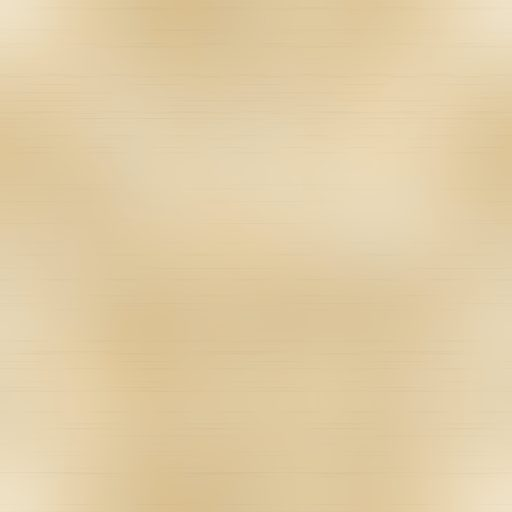
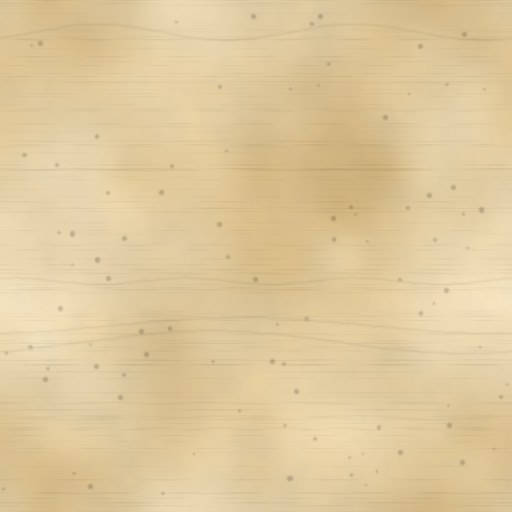
feat: any-assistant connection guide; real parchment; the room breathes
- docs/CONNECTING_ASSISTANTS.md: three doors for any AI — MCP/SSE
  (Claude Code one-liner), MCP/stdio (generic JSON + TOML snippets for
  Codex, Kimi, Grok, Cline, Gemini and any MCP client, via the existing
  docker-exec stdio bridge), and plain REST with curl examples for
  assistants without MCP. README's transport line now says so.
- Textures regenerated with real material character, each theme its
  own: parchment = mottled aged paper with foxing specks, visible
  fibers and faint fold lines; umber = dark oiled vellum with pores,
  stains and hairline scratches. Both still seamless tiles.
- The background stops being still: studies now wander through four
  waypoints per loop (70–150s, nearer pieces roam wider) instead of
  trembling in place; two vast light-blooms drift and swell on their
  own so the room moves even when the pointer rests; the vignette
  breathes on a 46s cycle. All pure CSS transforms/opacity; reduced
  motion still yields a perfectly still folio.
- The parchment lantern earns its keep: a deeper hand-shadow with a
  faint lens ring (multiply), unmistakable on the light theme.

Validation: 73 engravings across 8 folios, 0 parse failures.
Full pytest suite: 235 passed.

diff --git a/brain/app/static/js/codex.js b/brain/app/static/js/codex.js
@@ -323,20 +323,28 @@
     return s;
   }
 
-  function decorate(el, xPct, yPct, size, depth) {
+  function decorate(el, xPct, yPct, size, depth, roam) {
     el.style.left = xPct + "vw";
     el.style.top = yPct + "vh";
     el.style.width = size + "px";
     el.style.height = size + "px";
     el.style.setProperty("--depth", depth.toFixed(2));
-    var inner = el.firstChild;
-    inner.style.setProperty("--drift-x", rnd(-16, 16).toFixed(1) + "px");
-    inner.style.setProperty("--drift-y", rnd(-12, 12).toFixed(1) + "px");
-    inner.style.setProperty("--drift-r", rnd(-4, 4).toFixed(2) + "deg");
-    inner.style.setProperty("--base-r", rnd(-9, 9).toFixed(1) + "deg");
-    inner.style.setProperty("--breathe", rnd(1.01, 1.035).toFixed(3));
-    inner.style.animationDuration = rnd(40, 100).toFixed(0) + "s";
-    inner.style.animationDelay = "-" + rnd(0, 60).toFixed(0) + "s";
+    var inner = el.firstChild, st = inner.style;
+    // four waypoints of a slow float about the room; nearer pieces roam wider
+    var ax = roam * (0.6 + depth), ay = roam * 0.8 * (0.6 + depth);
+    for (var i = 1; i <= 3; i++) {
+      st.setProperty("--x" + i, rnd(-ax, ax).toFixed(2) + "vw");
+      st.setProperty("--y" + i, rnd(-ay, ay).toFixed(2) + "vh");
+    }
+    var r0 = rnd(-9, 9);
+    st.setProperty("--r0", r0.toFixed(1) + "deg");
+    for (var j = 1; j <= 3; j++) {
+      st.setProperty("--r" + j, (r0 + rnd(-7, 7)).toFixed(1) + "deg");
+    }
+    st.setProperty("--s1", rnd(1.01, 1.05).toFixed(3));
+    st.setProperty("--s2", rnd(0.96, 1.03).toFixed(3));
+    st.animationDuration = rnd(70, 150).toFixed(0) + "s";
+    st.animationDelay = "-" + rnd(0, 120).toFixed(0) + "s";
   }
 
   function build() {
@@ -357,6 +365,21 @@
     room.id = "codex-room";
     layer.appendChild(room);
 
+    // the breath: two vast blooms that keep the room moving even when
+    // the pointer rests
+    for (var bi = 0; bi < 2; bi++) {
+      var blob = document.createElement("div");
+      blob.className = "codex-blob";
+      blob.style.left = rnd(-20, 70) + "vw";
+      blob.style.top = rnd(-25, 65) + "vh";
+      blob.style.setProperty("--bx1", rnd(-14, 14).toFixed(1) + "vw");
+      blob.style.setProperty("--by1", rnd(-10, 10).toFixed(1) + "vh");
+      blob.style.setProperty("--bs", rnd(1.08, 1.3).toFixed(2));
+      blob.style.animationDuration = rnd(50, 95).toFixed(0) + "s";
+      blob.style.animationDelay = "-" + rnd(0, 50).toFixed(0) + "s";
+      room.appendChild(blob);
+    }
+
     var vignette = document.createElement("div");
     vignette.id = "codex-vignette";
     layer.appendChild(vignette);
@@ -373,7 +396,7 @@
       var plate = plates.splice(Math.floor(R() * plates.length), 1)[0];
       inner.style.backgroundImage = "url(/static/img/" + plate + ")";
       piece.appendChild(inner);
-      decorate(piece, p[0], p[1], rnd(230, 330), rnd(0.15, 0.3));
+      decorate(piece, p[0], p[1], rnd(230, 330), rnd(0.15, 0.3), 1.6);
       room.appendChild(piece);
     });
 
@@ -394,7 +417,7 @@
         + fn() + "</svg>";
       piece.appendChild(inner);
       var p = pos[n++ % pos.length];
-      decorate(piece, p[0], p[1], size, depth);
+      decorate(piece, p[0], p[1], size, depth, 4.2);
       room.appendChild(piece);
     }
 

diff --git a/brain/app/static/css/atlas.css b/brain/app/static/css/atlas.css
@@ -399,18 +399,21 @@ html[data-theme="parchment"] .empty-plate { opacity: .3; }
 }
 .codex-drift {
   width: 100%; height: 100%;
-  animation: codex-drift ease-in-out infinite alternate;
+  animation: codex-wander ease-in-out infinite;
   will-change: transform;
 }
 .codex-plate .codex-drift {
   width: 100%; height: 100%;
   background-size: contain; background-repeat: no-repeat;
 }
-@keyframes codex-drift {
-  from { transform: translate(0, 0) rotate(var(--base-r, 0deg)) scale(1); }
-  to   { transform: translate(var(--drift-x, 0px), var(--drift-y, 0px))
-                    rotate(calc(var(--base-r, 0deg) + var(--drift-r, 0deg)))
-                    scale(var(--breathe, 1.02)); }
+/* a slow wander through four waypoints — the studies genuinely float
+   about the room instead of trembling in place */
+@keyframes codex-wander {
+  0%   { transform: translate(0, 0) rotate(var(--r0, 0deg)) scale(1); }
+  25%  { transform: translate(var(--x1, 0), var(--y1, 0)) rotate(var(--r1, 0deg)) scale(var(--s1, 1.02)); }
+  50%  { transform: translate(var(--x2, 0), var(--y2, 0)) rotate(var(--r2, 0deg)) scale(1); }
+  75%  { transform: translate(var(--x3, 0), var(--y3, 0)) rotate(var(--r3, 0deg)) scale(var(--s2, 1.03)); }
+  100% { transform: translate(0, 0) rotate(var(--r0, 0deg)) scale(1); }
 }
 
 /* the lantern: warm light following the cursor over the vellum */
@@ -424,6 +427,27 @@ html[data-theme="parchment"] .empty-plate { opacity: .3; }
 #codex-vignette {
   position: absolute; inset: 0;
   background: radial-gradient(ellipse at 50% 38%, transparent 55%, rgba(10, 7, 4, .32) 100%);
+  animation: codex-vignette-breathe 46s ease-in-out infinite;
+}
+@keyframes codex-vignette-breathe {
+  0%, 100% { opacity: .85; } 50% { opacity: 1; }
+}
+/* the room's breath: vast, soft light-blooms drifting even when the
+   pointer rests */
+.codex-blob {
+  position: absolute; width: 70vmax; height: 70vmax; border-radius: 50%;
+  background: radial-gradient(circle at center,
+    rgba(224, 189, 125, .05) 0%, rgba(224, 189, 125, .02) 35%, transparent 65%);
+  animation: codex-blob ease-in-out infinite alternate;
+  will-change: transform;
+}
+html[data-theme="parchment"] .codex-blob {
+  background: radial-gradient(circle at center,
+    rgba(140, 106, 58, .05) 0%, rgba(140, 106, 58, .02) 35%, transparent 65%);
+}
+@keyframes codex-blob {
+  from { transform: translate(var(--bx0, 0), var(--by0, 0)) scale(1); }
+  to   { transform: translate(var(--bx1, 10vw), var(--by1, -6vh)) scale(var(--bs, 1.18)); }
 }
 
 /* fable pastel inks — umber theme */
@@ -454,8 +478,11 @@ html[data-theme="parchment"] .codex-plate {
 /* polar opposite on parchment: the cursor casts shadow, not light —
    a hand passing over the page */
 html[data-theme="parchment"] #codex-lantern {
-  background: radial-gradient(circle at center,
-    rgba(63, 48, 28, .11) 0%, rgba(63, 48, 28, .045) 26%, transparent 55%);
+  background:
+    radial-gradient(circle at center,
+      transparent 21%, rgba(63, 48, 28, .06) 25%, transparent 30%),
+    radial-gradient(circle at center,
+      rgba(63, 48, 28, .17) 0%, rgba(63, 48, 28, .07) 24%, transparent 52%);
   mix-blend-mode: multiply;
 }
 html[data-theme="parchment"] #codex-vignette {

diff --git a/docs/CONNECTING_ASSISTANTS.md b/docs/CONNECTING_ASSISTANTS.md
@@ -1,0 +1,103 @@
+# Connecting Any AI Assistant to MemoryBrain
+
+MemoryBrain speaks **MCP** (Model Context Protocol) over two transports plus
+a plain **REST API**. Anything that can use one of these three can use the
+brain — Claude, Codex, Gemini, Grok, Kimi, Cline, local models, or whatever
+ships next. Nothing here is assistant-specific except the config file the
+snippet lands in.
+
+## The three doors
+
+| Door | Address | Use when |
+|---|---|---|
+| MCP over SSE | `http://localhost:7741/sse` | your client supports remote/SSE MCP servers |
+| MCP over stdio | `docker exec -i memorybrain-brain-1 python /app/stdio_server.py` | your client only launches local MCP commands |
+| REST | `http://localhost:7741/...` | no MCP support at all |
+
+Both MCP doors expose the same 9 tools (`search_memory`, `get_memory`,
+`add_memory`, `get_recent_context`, `list_projects`, `get_startup_summary`,
+`delete_memory`, `get_related_memories`, `get_memory_graph`).
+
+If your container has a different name, find it with `docker ps`
+(look for the image built from this repo).
+
+## Claude Code
+
+`python3 cli/brain.py setup --auto-detect` registers it automatically, or:
+
+```bash
+claude mcp add -s user --transport sse memorybrain http://localhost:7741/sse
+```
+
+## Gemini (Antigravity)
+
+Registered automatically by `brain setup` when `~/.gemini/antigravity/`
+exists; the entry it writes is the generic stdio form below.
+
+## Codex, Kimi, Grok, Cline, and any other MCP client
+
+Most MCP clients accept a JSON `mcpServers` map (some, like Codex CLI, use
+the same fields in TOML). Use whichever door your client supports:
+
+```jsonc
+// stdio form — works with any client that can launch a command
+{
+  "mcpServers": {
+    "memorybrain": {
+      "command": "docker",
+      "args": ["exec", "-i", "memorybrain-brain-1",
+               "python", "/app/stdio_server.py"]
+    }
+  }
+}
+```
+
+```jsonc
+// SSE form — for clients that take a server URL
+{
+  "mcpServers": {
+    "memorybrain": { "url": "http://localhost:7741/sse" }
+  }
+}
+```
+
+TOML equivalent (Codex-style config):
+
+```toml
+[mcp_servers.memorybrain]
+command = "docker"
+args = ["exec", "-i", "memorybrain-brain-1", "python", "/app/stdio_server.py"]
+```
+
+Consult your assistant's own MCP documentation for the config file location —
+that is the only part that varies.
+
+## REST — for assistants (or scripts) without MCP
+
+```bash
+# search (hybrid; falls back to keyword when the embedding provider is down)
+curl -s "localhost:7741/api/ui/search?q=deploy+checklist&limit=5"
+
+# recent activity and projects
+curl -s localhost:7741/api/ui/stats
+curl -s "localhost:7741/api/ui/stream?limit=20"
+
+# store a note (add -H "X-Brain-Key: <key>" if BRAIN_API_KEY is set)
+curl -s -X POST localhost:7741/ingest/note \
+  -H "Content-Type: application/json" \
+  -d '{"content":"the thing to remember","project":"my-project","tags":["ops"]}'
+```
+
+Give a non-MCP assistant these endpoints in its system prompt and it can
+read and write the brain with plain HTTP calls.
+
+## Notes
+
+- **Auth:** reads under `/api/ui/*` are open on loopback; writes
+  (`/ingest/*`, `/api/ui/edit/*`, admin) require the `X-Brain-Key` header
+  whenever `BRAIN_API_KEY` is set in `.env`.
+- **Installing with an AI's help:** the strict, model-agnostic prompts in
+  [AI_INSTALL_PROMPTS.md](AI_INSTALL_PROMPTS.md) drive a full install or
+  migration with any assistant.
+- MemoryBrain is local-first and loopback-only; none of the above exposes
+  it to the network.

diff --git a/README.md b/README.md
@@ -6,7 +6,10 @@ Replaces flat MEMORY.md files with a FastAPI + SQLite (FTS5 + sqlite-vec) + Olla
 that gives your AI assistant automatic context on every new session, with on-demand semantic search,
 an automatic memory graph, and a local web UI at http://localhost:7741/ui.
 
-MemoryBrain natively supports **SSE transport** for Claude Code and **stdio transport** (via a Docker wrapper) for Gemini.
+MemoryBrain works with **any AI assistant**: MCP over SSE (Claude Code),
+MCP over stdio (Gemini, Codex, Kimi, Grok, Cline — any MCP client, via a
+one-line Docker command), or plain REST for assistants without MCP.
+See [docs/CONNECTING_ASSISTANTS.md](docs/CONNECTING_ASSISTANTS.md).
 
 MemoryBrain is a **passive store** — it stores what your assistant saves via `add_memory`. No polling,
 no plugin credentials. Works identically on any machine with any MCP tools registered.
